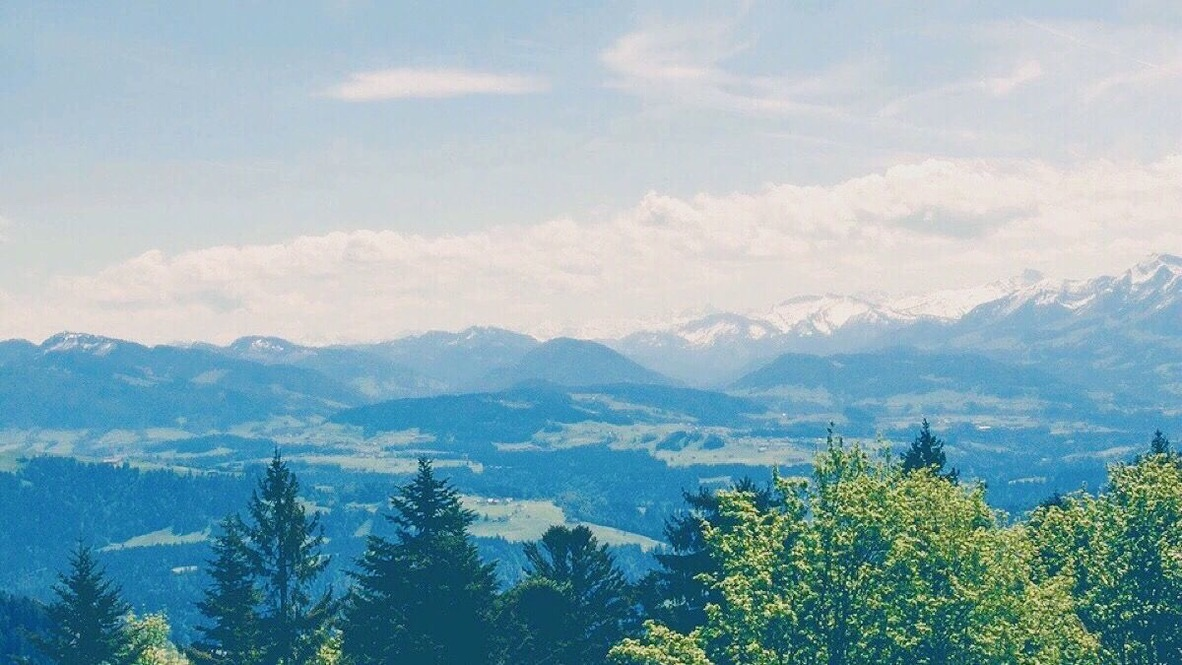
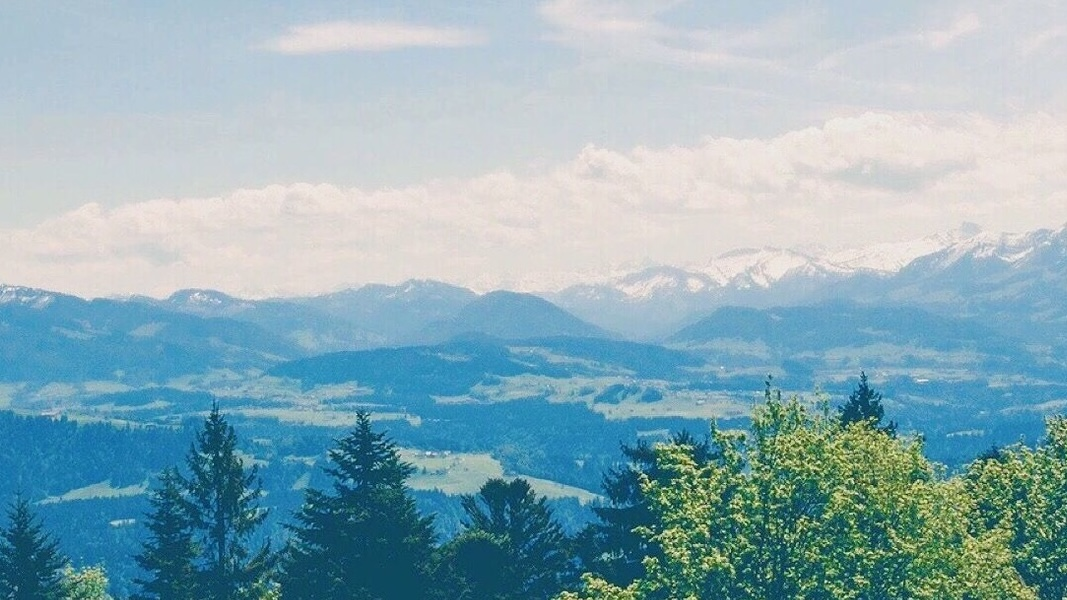
tests

diff --git a/index.html b/index.html
@@ -9,7 +9,7 @@
       margin: 0;
       padding: 0;
       background-image: url('https://zhangtian-yu.github.io/mountains.jpg'); /* 背景图片路径 */
-      background-size: auto;
+      background-size: cover;
       background-position: center;
       font-family: Arial, sans-serif;
     }
